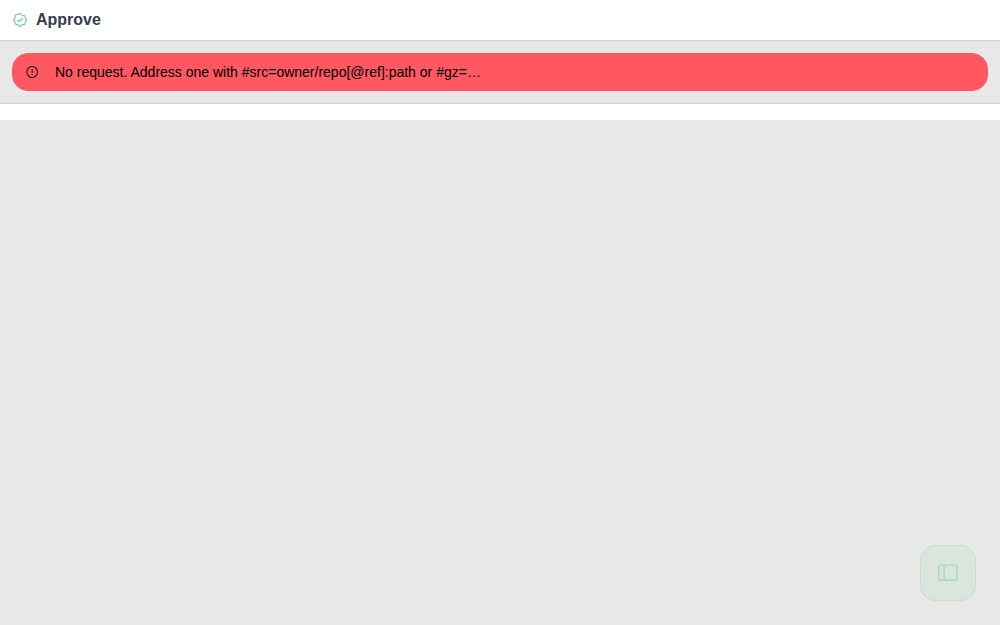
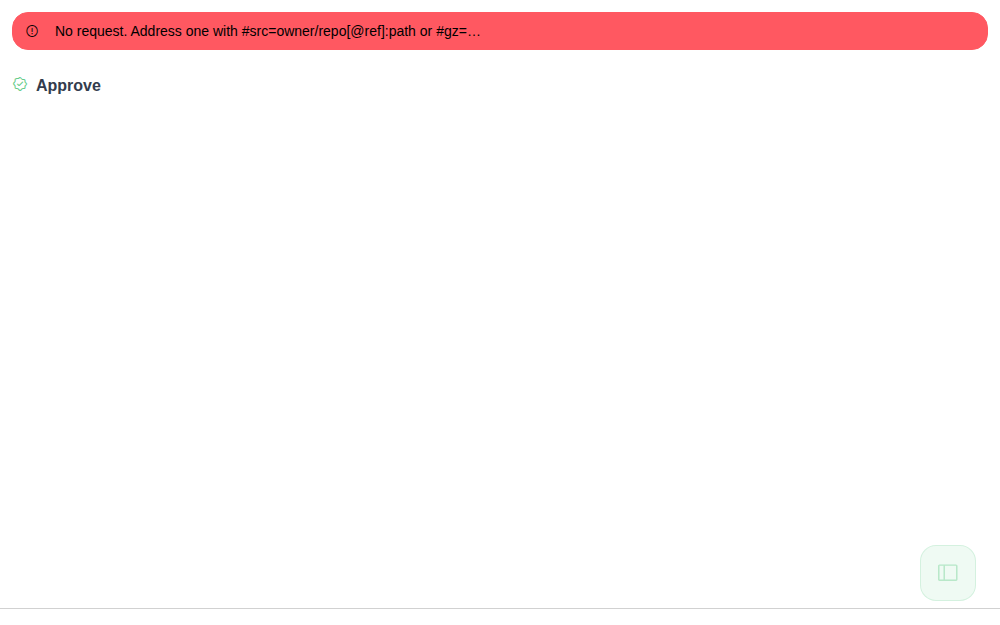
The approval page is a deck, and an item gets the whole width
It opened on a strip of its own chrome, a seal and the request's name and its
kind and occasion and a notes button, then the id and branch, then the
rationale, then a bordered frame holding every item stacked inside it. On a
phone that is most of a screen before the first thing anyone came to read, and
the frame put a second box around cards that already have edges, which cost the
change container its width.

The house format for a set you go THROUGH is the swipe deck, so the set is one.
The ask is the first slide and each item is its own after it, full width,
nothing nested. The only chrome left is the row of decisions at the foot, where
the notes button now sits with them, because that is what the page is for.

The first attempt generated the item sections with x-for and moved the nodes
into the slides. Alpine owns an x-for's output, re-created it behind the move,
and the slides held detached copies: measured three slides and zero change
containers. A plain template cloned per item, each clone given its own record
before initTree, is the ordinary way to hand one record to one subtree.

Measured at 430px: three slides, the item slide 430 wide, its change container
430 wide, ten changes drawn, content inset by the 8px the page asks for and
nothing else.

Claude-Session: https://claude.ai/code/session_01WtGbEtQgWAJcvN8J5pwYmd

Changed region(s): [[0.0, 0.0, 0.992, 0.152]]

diff --git a/pages/approve.html b/pages/approve.html
@@ -58,6 +58,7 @@
   }
   try {
     await gh.load('gh-store.js');
+    await gh.load('kits/swipe-deck.js');
     await gh.load('kits/cm6-merge.js');
     await gh.load('alpineComponents/file-review.js');
     await gh.load('kits/annotate.js');
@@ -65,22 +66,34 @@
 </script>
 <style>[x-cloak]{display:none!important}</style>
 </head>
-<body class="min-h-dvh bg-base-200 text-base-content" x-data="approveApp()" x-cloak>
+<!-- NO PAGE HEADER, AND THE SET IS A DECK. The page used to open on a strip of
+     its own chrome (a seal, the request's name, its kind and occasion, a notes
+     button), then the id and branch, then the rationale, then a bordered frame
+     holding every item stacked. On a phone that is most of a screen before the
+     first thing anyone came to read, and the frame put a second box around
+     cards that already have edges.
+     The house format for a set you go THROUGH is the swipe deck, so the set is
+     one: the ask is slide one and each item is its own after it. Nothing is
+     nested, so a change container gets the full width, and the only chrome left
+     is the row of decisions at the foot, which is what the page is for.
+     `h-dvh` with the deck growing, not `min-h-dvh`: a track has to be given a
+     height to snap inside. Normal flow rather than `fixed inset-0`, since this
+     page is framed as an app view and rule 5 of the house style is that a fixed
+     child measures against the OUTER viewport. -->
+<body class="h-dvh flex flex-col bg-base-100 text-base-content overflow-hidden"
+      x-data="approveApp()" x-cloak>
 
-<!-- Normal flow with sticky chrome, not `fixed inset-0`: this page is meant to
-     be framed as an app view, and rule 5 of the house style is that a fixed
-     child measures against the OUTER viewport, so its right-hand column is cut
-     off inside a narrower iframe and headless Chromium will not reveal it. -->
-<header class="sticky top-0 z-30 bg-base-100 border-b border-base-300 flex items-center gap-2 px-3 py-2">
-  <i class="ph ph-seal-check text-primary shrink-0"></i>
-  <span class="font-semibold truncate" x-text="env?.manifest?.name || 'Approve'"></span>
-  <div class="grow"></div>
-  <span class="text-xs opacity-60 font-mono hidden sm:inline" x-text="ctx.kind"></span>
-  <span class="text-xs opacity-60 font-mono" x-show="ctx.occasion" x-text="ctx.occasion"></span>
-  <button class="btn btn-ghost btn-sm" @click="toggleNotes()" x-show="env" :class="noting && 'text-primary'">
-    <i class="ph ph-note-pencil"></i><span x-text="notes.length || ''"></span>
-  </button>
-</header>
+<div x-show="loading" class="flex items-center gap-2 opacity-70 px-3 py-3">
+  <span class="loading loading-spinner loading-sm"></span> Loading
+</div>
+<div x-show="error" class="alert alert-error py-2 px-3 m-3">
+  <i class="ph ph-warning-circle"></i><span x-text="error"></span>
+</div>
+
+<!-- The track lives here and the slides are filled from the pool below. Alpine
+     builds each section once, with its bindings; the deck MOVES the node rather
+     than re-rendering it, so nothing is built twice and nothing loses state. -->
+<main class="grow min-h-0" x-ref="deck"></main>
 
 <!-- grid-cols-[minmax(0,1fr)], not a bare `grid`. A grid item defaults to
      min-width:auto, so one wide descendant (a code fence with long lines) sizes
@@ -89,14 +102,22 @@
      paragraphs did not wrap and the card clipped them with overflow-hidden.
      Letting the column shrink below its content is what hands the overflow back
      to the objects that know how to scroll. -->
-<main class="px-3 py-3 grid grid-cols-[minmax(0,1fr)] gap-3 content-start">
+<div x-ref="pool" class="hidden">
 
-  <div x-show="loading" class="flex items-center gap-2 opacity-70">
-    <span class="loading loading-spinner loading-sm"></span> Loading
-  </div>
-  <div x-show="error" class="alert alert-error py-2 px-3">
-    <i class="ph ph-warning-circle"></i><span x-text="error"></span>
-  </div>
+  <section data-slide class="h-full overflow-y-auto px-3 py-3 grid grid-cols-[minmax(0,1fr)] gap-2 content-start">
+    <div class="flex items-baseline gap-2 flex-wrap">
+      <i class="ph ph-seal-check text-primary"></i>
+      <span class="font-semibold" x-text="env?.manifest?.name || 'Approve'"></span>
+    </div>
+    <div class="flex items-center gap-3 flex-wrap font-mono text-xs opacity-60">
+      <span x-text="ctx.id"></span>
+      <span x-show="ctx.occasion" x-text="ctx.occasion"></span>
+      <a x-show="ctx.branch" :href="'https://github.com/' + repoOf() + '/tree/' + ctx.branch"
+         target="_blank" class="link link-hover" x-text="ctx.branch"></a>
+      <a x-show="ctx.session" :href="ctx.session" target="_blank" class="link link-hover">session</a>
+    </div>
+    <p class="text-pretty" x-text="ctx.rationale"></p>
+  </section>
 
   <!-- The author's reason, first. It is what the decision is about; the diffs
        below are the evidence for it. Labelled rather than boxed, so the page
@@ -111,17 +132,19 @@
     <p class="text-pretty" x-text="ctx.rationale"></p>
   </section>
 
-  <!-- ONE frame around the whole set, with a hairline between items, which is
-       what pages/review.html does with its file cards. A box per item made the
-       page read as unrelated tiles and buried the thing they have in common. -->
-  <!-- divide-[var(--color-base-300)], not divide-base-300: daisyUI ships no
-       divide- utility in its colour families, so the plain name compiles to
-       nothing and the hairlines would silently be browser-default grey. Caught
-       by the dead-colour-utility test, which names the substitution. -->
-  <div x-show="items.length" class="border border-base-300 rounded-lg overflow-hidden bg-base-100
-              divide-y divide-[var(--color-base-300)]">
-    <template x-for="it in items" :key="it.id">
-      <section class="p-3 grid grid-cols-[minmax(0,1fr)] gap-2">
+  <!-- One item per slide, so no frame around the set and no box inside one: the
+       item IS the screen. The bordered frame that used to hold them made the
+       page read as a stack of tiles and cost the change container its width. -->
+  <!-- A PLAIN TEMPLATE, NOT x-for. The first version generated the item
+       sections with x-for and moved the nodes into the deck's slides; Alpine
+       owns an x-for's output, re-created it in the pool behind the move, and
+       the slides ended up holding detached copies with nothing in them.
+       Measured: three slides, zero change containers. So the deck clones this
+       template per item and gives each clone its own `it` before Alpine
+       initialises it, which is the ordinary way to hand one record to one
+       subtree. -->
+  <template x-ref="itemTpl">
+    <section data-slide class="h-full overflow-y-auto px-2 py-2 grid grid-cols-[minmax(0,1fr)] gap-2 content-start">
 
         <div class="flex items-baseline gap-2 flex-wrap">
           <span class="font-medium font-mono" x-text="it.title"></span>
@@ -168,11 +191,9 @@
                status: it.change?.status, patch: it.change?.patch,
                open: true, bare: true, read: true, openOn: 'mddiff' })"></div>
 
-      </section>
-    </template>
-  </div>
-
-</main>
+    </section>
+  </template>
+</div>
 
 <footer class="sticky bottom-0 z-30 bg-base-100 border-t border-base-300 px-3 py-2 grid gap-2">
 
@@ -186,6 +207,10 @@
        decision surface whose "no" is harder to reach than its "yes" collects
        agreement rather than decisions. -->
   <div class="flex gap-2 items-center" x-show="env && !sent">
+    <button class="btn btn-ghost btn-sm shrink-0" @click="toggleNotes()" :class="noting && 'text-primary'"
+            title="Take notes on this request" aria-label="Take notes on this request">
+      <i class="ph ph-note-pencil"></i><span x-text="notes.length || ''"></span>
+    </button>
     <button class="btn btn-sm grow" @click="send('returned')" :disabled="sending">
       <i class="ph ph-arrow-u-up-left"></i> Return
     </button>
@@ -224,6 +249,7 @@ document.addEventListener('alpine:init', () => {
     },
 
     get ctx() { return this.env?.context || {}; },
+    itemAt(i) { return this.items[i] || {}; },
     // Where the items live. The request names one repo for the set, since a
     // decision spanning two repos is two decisions.
     repoOf() { return this.ctx.repo || (this.ctx.reply_to || '').split(':')[0]; },
@@ -275,6 +301,37 @@ document.addEventListener('alpine:init', () => {
         this.error = e.message;
       }
       this.loading = false;
+      // After the sections exist, not before: x-for has to have run for there
+      // to be anything to move.
+      this.$nextTick(() => this.deck());
+    },
+
+    // THE SET IS A DECK, and the slides are the sections Alpine already built.
+    // `render` MOVES a node out of the pool rather than constructing one, so
+    // every binding, every mounted card and every bit of state comes with it
+    // and nothing is built twice. The deck builds lazily, so a request with
+    // twenty items still costs three slides on open.
+    //
+    // `slideScroll: false` because each section owns its own vertical scroll:
+    // the deck's own padding is what would inset a change container from the
+    // edge, and the whole point of moving to a deck was to stop nesting.
+    // `snapStop` for the reason the change containers have it: a set is stepped
+    // through, not flicked past.
+    deck() {
+      const host = this.$refs.deck, pool = this.$refs.pool;
+      if (!host || !pool || !window.swipeDeck) return;
+      const ask = pool.querySelector('[data-slide]');
+      const tpl = this.$refs.itemTpl;
+      if (!ask || !tpl) return;
+      host.textContent = '';
+      const d = window.swipeDeck.core(1 + this.items.length, (n, slide) => {
+        if (n === 0) { slide.append(ask); return; }
+        const node = tpl.content.firstElementChild.cloneNode(true);
+        node.setAttribute('x-data', `{ it: itemAt(${n - 1}) }`);
+        slide.append(node);
+        window.Alpine.initTree(node);
+      }, { slideScroll: false, innerClass: 'w-full h-full min-w-0', snapStop: true });
+      host.append(d.track);
     },
 
     async send(decision) {
